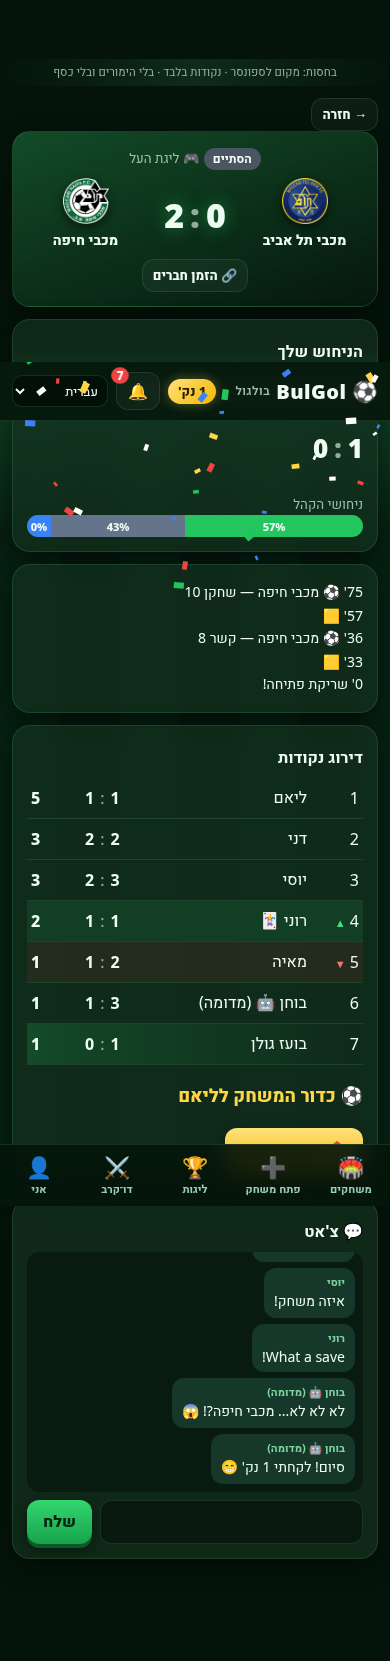
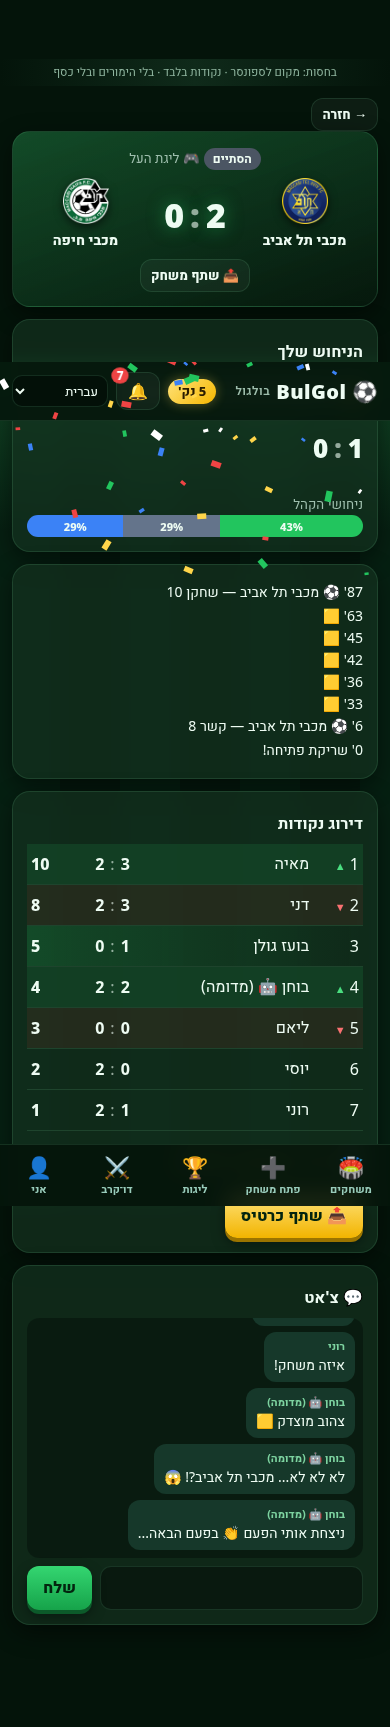
Predictions window 48h open / 5h lock (real), per-match share links, tester respects lock

diff --git a/js/app.js b/js/app.js
@@ -13,6 +13,8 @@ const rnd=n=>Math.floor(Math.random()*n);
 const vib=n=>{try{navigator.vibrate&&navigator.vibrate(n);}catch(e){}};
 let tab='home',cur=null,prevRank={},fixCache={};
 const initials=n=>esc(String(n).replace(/[^\p{L}\p{N} ]/gu,'').split(' ').filter(Boolean).slice(0,2).map(w=>w[0]).join('').toUpperCase());
+const WIN=48*36e5,LOCK5=5*36e5;const lockAt=m=>m.real?m.ko-LOCK5:m.ko;const notYet=m=>m.state==='pre'&&m.ko-Date.now()>WIN;const closed=m=>m.state!=='pre'||Date.now()>=lockAt(m);const lockMsg=m=>m.real&&m.state==='pre'?t('locked5'):t('locked');
+function opensIn(m){const l=Math.max(0,m.ko-WIN-Date.now()),d=Math.floor(l/864e5),h=Math.floor(l%864e5/36e5),mi=Math.floor(l%36e5/6e4);return t('opensIn')+' '+(d?d+'d ':'')+h+'h '+mi+'m';}
 const hue=n=>[...String(n)].reduce((a,c)=>a+c.charCodeAt(0)*7,0)%360;
 function crest(team,url){const n=nm(team),u=safeUrl(url||BADGE_URL[String(team).split('|')[1]]);const fb=`<span class="crest fb" data-h="${hue(n)}">${initials(n)}</span>`;return u?`<img class="crest" alt="" loading="lazy" src="${esc(u)}/tiny" data-fb="${initials(n)}" data-h="${hue(n)}">`:fb;}
 document.addEventListener('error',e=>{const i=e.target;if(i.tagName==='IMG'&&i.dataset.fb!=null){const s=document.createElement('span');s.className='crest fb';s.dataset.h=i.dataset.h;s.textContent=i.dataset.fb;i.replaceWith(s);}},true);
@@ -31,7 +33,7 @@ function crowd(m){const ps=Object.values(m.preds);if(!ps.length)return'';const c
 function render(){hdr();const v=$('#view');v.classList.remove('in');void v.offsetWidth;v.classList.add('in');
  if(tab==='home'){const cl=Cloud.on()?'':`<div class="note">☁ ${t('cloudOff')}</div>`;const now=Date.now(),d0=new Date();d0.setHours(0,0,0,0);const lim=fTime==='today'?d0.getTime()+864e5:fTime==='week'?d0.getTime()+7*864e5:Infinity;const lo=fTime==='all'?-Infinity:d0.getTime()-864e5;const ms=S.matches.filter(m=>(fLg==='all'||m.lg===fLg)&&m.ko<lim&&(m.ko>=lo||m.state==='live')).sort((x,y)=>(x.state==='done')-(y.state==='done')||x.ko-y.ko);
  const fl=`<div class="filters"><select id="flg" aria-label="${t('fLeague')}"><option value="all">${t('fAllLg')}</option>${Object.keys(LEAGUES).map(k=>`<option value="${esc(k)}"${fLg===k?' selected':''}>${esc(LEAGUES[k][S.lang==='he'?'he':'en'])}</option>`).join('')}</select><div class="seg">${['today','week','all'].map(k=>`<button class="ghost sm${fTime===k?' on':''}" data-ft="${k}">${t('f_'+k)}</button>`).join('')}</div></div>`;
- v.innerHTML=cl+`<div class="ad">${t('ad')}</div>`+fl+(ms.length?ms.map(m=>{const p=m.preds[S.me],op=m.state==='pre'&&now<m.ko;return`<div class="card mcard"><div data-open="${m.id}"><div class="mtop">${status(m)} <small>${m.real?'🌍 '+t('real'):'🎮 '+t('demo')} · ${esc(LEAGUES[m.lg][S.lang==='he'?'he':'en'])}</small></div>${matchHead(m)}<small>👥 ${Object.keys(m.preds).length} ${t('joined')} · ${new Date(m.ko).toLocaleString(S.lang,{weekday:'short',hour:'2-digit',minute:'2-digit'})}</small>${m.stake?`<div class="stake">🎁 ${t('stakeLbl')}: ${esc(m.stake)}</div>`:''}</div>${op?`<div class="qp"><input type="number" min="0" max="15" inputmode="numeric" class="qh" value="${p?+p.h:''}" placeholder="0"> : <input type="number" min="0" max="15" inputmode="numeric" class="qa" value="${p?+p.a:''}" placeholder="0"> <button class="gold sm" data-q="${m.id}">${p?'✅ ':''}${t('quickSave')}</button></div>`:p?`<div class="qp"><small>${t('predict')}: ${+p.h}:${+p.a}</small></div>`:''}</div>`}).join(''):`<div class="card empty">⚽<br>${t('noMatch')}</div>`);const sl=$('#flg');if(sl)sl.onchange=e=>{fLg=e.target.value;localStorage.bgFlg=fLg;render();};}
+ v.innerHTML=cl+`<div class="ad">${t('ad')}</div>`+fl+(ms.length?ms.map(m=>{const p=m.preds[S.me],op=!closed(m);return`<div class="card mcard"><div data-open="${m.id}"><div class="mtop">${status(m)} <small>${m.real?'🌍 '+t('real'):'🎮 '+t('demo')} · ${esc(LEAGUES[m.lg][S.lang==='he'?'he':'en'])}</small></div>${matchHead(m)}<small>👥 ${Object.keys(m.preds).length} ${t('joined')} · ${new Date(m.ko).toLocaleString(S.lang,{weekday:'short',hour:'2-digit',minute:'2-digit'})}</small>${m.stake?`<div class="stake">🎁 ${t('stakeLbl')}: ${esc(m.stake)}</div>`:''}</div>${op&&notYet(m)?`<div class="qp"><small>⏳ ${esc(opensIn(m))}</small></div>`:op?`<div class="qp"><input type="number" min="0" max="15" inputmode="numeric" class="qh" value="${p?+p.h:''}" placeholder="0"> : <input type="number" min="0" max="15" inputmode="numeric" class="qa" value="${p?+p.a:''}" placeholder="0"> <button class="gold sm" data-q="${m.id}">${p?'✅ ':''}${t('quickSave')}</button></div>`:p?`<div class="qp"><small>${t('predict')}: ${+p.h}:${+p.a}</small></div>`:m.state==='pre'?`<div class="qp"><small>${esc(lockMsg(m))}</small></div>`:''}<button class="ghost sm" data-act="sharem" data-id="${esc(m.id)}">📤 ${t('shareMatch')}</button></div>`}).join(''):`<div class="card empty">⚽<br>${t('noMatch')}</div>`);const sl=$('#flg');if(sl)sl.onchange=e=>{fLg=e.target.value;localStorage.bgFlg=fLg;render();};}
  else if(tab==='create')renderCreate();
  else if(tab==='match')renderMatch();
  else if(tab==='leagues'){v.innerHTML=S.leagues.map(l=>{const rows=l.members.map(p=>[p,S.totals[p]||0]).sort((a,b)=>b[1]-a[1]);return`<div class="card"><h2>${esc(l.name)}</h2><table>${rows.map((r,i)=>`<tr class="${r[0]===S.me?'me':''}"><td>${['🥇','🥈','🥉'][i]||i+1}</td><td>${esc(dn(r[0]))}</td><td class="n">${r[1]} ${t('pts')}</td></tr>`).join('')}</table><p class="trophy">${t('trophy')}: <b>${esc(dn(rows[0][0]))}</b></p><button class="ghost sm" data-act="invite" data-l="${esc(l.id)}">🔗 ${t('invite')}</button></div>`;}).join('')+`<div class="card"><h3>${t('newLeague')}</h3><input id="lname" maxlength="40" placeholder="${t('leagueName')}"><br><br><button data-act="league">${t('create2')}</button></div><div class="card"><h2>${t('fans')}</h2><table>${Object.entries(S.fanPts).sort((a,b)=>b[1]-a[1]).map(([k,p],i)=>`<tr><td>${i+1}</td><td>${crest(k)} ${esc(nm(k))}</td><td class="n">${p}</td></tr>`).join('')||'<tr><td>—</td></tr>'}</table></div>`;}
@@ -59,25 +61,25 @@ function boardHtml(m){const rank=standings(m);return rank.map((r,i)=>{const was=
 function flipBoard(m){const tb=$('#board');if(!tb)return;const old={};tb.querySelectorAll('tr').forEach(r=>old[r.dataset.n]=r.getBoundingClientRect().top);tb.innerHTML=boardHtml(m);
  tb.querySelectorAll('tr').forEach(r=>{const o=old[r.dataset.n];if(o==null)return;const d=o-r.getBoundingClientRect().top;if(d){r.style.transform=`translateY(${d}px)`;r.style.transition='none';requestAnimationFrame(()=>{r.style.transition='transform .7s cubic-bezier(.2,.8,.2,1)';r.style.transform='';});}});
  prevRank[m.id]={};standings(m).forEach((r,i)=>prevRank[m.id][r[0]]=i);}
-function renderMatch(){const m=S.matches.find(x=>x.id===cur);if(!m){tab='home';return render();}const v=$('#view');const mine=m.preds[S.me]||{};const lock=m.state!=='pre'||Date.now()>=m.ko;const L=LEAGUES[m.lg];
+function renderMatch(){const m=S.matches.find(x=>x.id===cur);if(!m){tab='home';return render();}const v=$('#view');const mine=m.preds[S.me]||{};const lock=closed(m);const L=LEAGUES[m.lg];
  const pl=PLAYERS.map((p,i)=>`<option value="${i}" ${mine.sc==i?'selected':''}>${esc(nm(p))}</option>`).join('');
  const scorerField=m.real?`<input id="psc" maxlength="40" value="${esc(mine.st||'')}" placeholder="${t('scorerTxt')}">`:`<select id="psc">${pl}</select>`;
- v.innerHTML=`<button class="ghost sm" data-tab="home">${RTL.includes(S.lang)?'→':'←'} ${t('back')}</button><div class="card hero">${status(m)} <small>${m.real?'🌍':'🎮'} ${esc(L[S.lang==='he'?'he':'en'])}</small>${matchHead(m)}${m.state==='pre'?`<div class="cd" id="cd"></div>`:''}${m.real&&m.state!=='done'&&Date.now()>m.ko?`<small>⏳ ${t('waitFT')}</small>`:''}${m.stake?`<div class="stake">🎁 ${t('stakeLbl')}: ${esc(m.stake)}</div>`:''}<button class="ghost sm" data-act="invitem">🔗 ${t('invite')}</button></div>
- <div class="card"><h3>${t('predict')}</h3>${lock?`<p>${t('locked')}</p><p class="mypick">${mine.h!=null?sc(mine.h,mine.a):'—'}${mine.j?' 🃏':''}</p>`:`<div class="row pickrow"><div><small>${esc(nm(m.home))}</small><input id="ph" type="number" min="0" max="15" value="${mine.h??1}"></div><div><small>${esc(nm(m.away))}</small><input id="pa" type="number" min="0" max="15" value="${mine.a??0}"></div></div><label>${t('scorer')}</label>${scorerField}<div class="row"><div><label>${t('yellow')}</label><input id="py" type="number" min="0" max="12" value="${mine.y??3}"></div>${m.real?'':`<div><label>${t('corners')}</label><input id="pc" type="number" min="0" max="25" value="${mine.c??9}"></div>`}</div><label class="chk"><input type="checkbox" id="pr" ${mine.r?'checked':''}><span>${t('red')}</span></label><label class="chk"><input type="checkbox" id="pj" ${mine.j?'checked':''}><span>${t('joker')}</span></label><small>${t('bold')}</small><br><br><button data-act="pick" class="big">${t('save')}</button>`}
+ v.innerHTML=`<button class="ghost sm" data-tab="home">${RTL.includes(S.lang)?'→':'←'} ${t('back')}</button><div class="card hero">${status(m)} <small>${m.real?'🌍':'🎮'} ${esc(L[S.lang==='he'?'he':'en'])}</small>${matchHead(m)}${m.state==='pre'?`<div class="cd" id="cd"></div>`:''}${m.real&&m.state!=='done'&&Date.now()>m.ko?`<small>⏳ ${t('waitFT')}</small>`:''}${m.stake?`<div class="stake">🎁 ${t('stakeLbl')}: ${esc(m.stake)}</div>`:''}<button class="ghost sm" data-act="invitem">📤 ${t('shareMatch')}</button></div>
+ <div class="card"><h3>${t('predict')}</h3>${notYet(m)?`<p>⏳ ${esc(opensIn(m))}</p>`:lock?`<p>${esc(lockMsg(m))}</p><p class="mypick">${mine.h!=null?sc(mine.h,mine.a):'—'}${mine.j?' 🃏':''}</p>`:`<div class="row pickrow"><div><small>${esc(nm(m.home))}</small><input id="ph" type="number" min="0" max="15" value="${mine.h??1}"></div><div><small>${esc(nm(m.away))}</small><input id="pa" type="number" min="0" max="15" value="${mine.a??0}"></div></div><label>${t('scorer')}</label>${scorerField}<div class="row"><div><label>${t('yellow')}</label><input id="py" type="number" min="0" max="12" value="${mine.y??3}"></div>${m.real?'':`<div><label>${t('corners')}</label><input id="pc" type="number" min="0" max="25" value="${mine.c??9}"></div>`}</div><label class="chk"><input type="checkbox" id="pr" ${mine.r?'checked':''}><span>${t('red')}</span></label><label class="chk"><input type="checkbox" id="pj" ${mine.j?'checked':''}><span>${t('joker')}</span></label><small>${t('bold')}</small><br><br><button data-act="pick" class="big">${t('save')}</button>`}
  ${crowd(m)}${m.state==='pre'&&!m.real?`<br><button class="ghost" data-act="start">${t('startLive')}</button>`:''}</div>
  ${m.state==='live'&&!m.real?`<div class="card"><h3>📡 ${t('livePick')}</h3><div class="row"><button class="sm ${m.livePick==='h'?'gold':''}" data-live="h">${esc(nm(m.home))}</button><button class="sm ${m.livePick==='a'?'gold':''}" data-live="a">${esc(nm(m.away))}</button><button class="sm ghost" data-live="n">${t('none')}</button></div></div>`:''}
  ${m.feed.length?`<div class="card feed" id="feed">${m.feed.slice(-8).reverse().map(f=>`<p>${esc(f)}</p>`).join('')}</div>`:''}
  <div class="card"><h3>${t('ranking')}</h3>${m.state==='live'?`<small class="prov">⚡ ${t('provisional')}</small>`:''}<table><tbody id="board"></tbody></table>${m.state==='done'&&m.winner?`<p class="win">⚽ ${t('ballTo')}${esc(m.winner)}</p><button class="gold" data-act="showball">📤 ${t('share')}</button>`:''}</div>
  <div class="card"><h3>💬 ${t('chat')}</h3><div class="chat" id="chat">${m.chat.map(c=>`<p class="${c.n===S.me?'mine':''}"><b>${esc(dn(c.n))}</b>${esc(c.m)}</p>`).join('')}</div><div class="row"><input id="cm" maxlength="200"><button class="fit" data-act="chat">${t('send')}</button></div></div>`;
  flipBoard(m);const ch=$('#chat');ch.scrollTop=ch.scrollHeight;cdTick();}
-function cdTick(){const e=$('#cd');if(!e)return;const m=S.matches.find(x=>x.id===cur);const left=Math.max(0,Math.ceil((m.ko-Date.now())/1000));const d=Math.floor(left/86400),h=Math.floor(left%86400/3600),mi=Math.floor(left%3600/60),s=left%60;e.textContent='⏱ '+(d?d+'d ':'')+(h?h+':':'')+String(mi).padStart(2,'0')+':'+String(s).padStart(2,'0');}
+function cdTick(){const e=$('#cd');if(!e)return;const m=S.matches.find(x=>x.id===cur);if(!m)return;const lk=m.real&&Date.now()<lockAt(m);const left=Math.max(0,Math.ceil(((lk?lockAt(m):m.ko)-Date.now())/1000));const d=Math.floor(left/86400),h=Math.floor(left%86400/3600),mi=Math.floor(left%3600/60),s=left%60;e.textContent=(lk?'🔒 '+t('lockIn')+' ':'⏱ ')+(d?d+'d ':'')+(h?h+':':'')+String(mi).padStart(2,'0')+':'+String(s).padStart(2,'0');}
 function botPred(real){return{h:rnd(4),a:rnd(3),sc:rnd(6),st:real?'':'',y:2+rnd(4),c:6+rnd(7),r:Math.random()<.2,j:Math.random()<.3};}
 function createMatch(){const lg=$('#lg').value,L=LEAGUES[lg];let m;const base={id:'m'+Date.now()+rnd(999),lg,stake:$('#stake').value.trim().slice(0,80),state:'pre',minute:0,sh:0,sa:0,y:0,r:0,c:0,firstSc:null,preds:{},chat:[{n:'דני',m:'יאללה! מי בפנים? ⚽'}],feed:[]};
  if($('#view').dataset.mode==='real'){const sel=document.querySelector('input[name=fx]:checked');if(!sel)return toast(t('noFix'));const e=fixCache[lg][+sel.value];m={...base,real:e.idEvent,home:'|'+e.strHomeTeam,away:'|'+e.strAwayTeam,hb:safeUrl(e.strHomeTeamBadge),ab:safeUrl(e.strAwayTeamBadge),ko:Date.parse(e.strTimestamp+'Z')};}
  else{const h=+$('#th').value,a=+$('#ta').value;if(h===a)return toast('⚠');m={...base,home:L.teams[h],away:L.teams[a],ko:Date.now()+Math.max(1,+$('#ko').value||2)*60000};}
  FRIENDS.slice(0,3+rnd(3)).forEach(f=>m.preds[f]=botPred(!!m.real));Tester.join(m);S.matches.push(m);save();notify('⚽ '+nm(m.home)+' – '+nm(m.away));cur=m.id;tab='match';render();}
-function quickPick(id,box){const m=S.matches.find(x=>x.id===id);if(!m||m.state!=='pre'||Date.now()>=m.ko)return toast(t('locked'));const o=m.preds[S.me]||{y:0,c:0,r:false,j:false};const p=Object.assign({},o,{h:Math.min(15,Math.max(0,+box.querySelector('.qh').value||0)),a:Math.min(15,Math.max(0,+box.querySelector('.qa').value||0))});m.preds[S.me]=p;badge('first');save();vib(20);toast('✅ '+t('saved'));Tester.picked(m);const b=box.querySelector('button');if(b)b.textContent='✅ '+t('quickSave');}
-function pick(){const m=S.matches.find(x=>x.id===cur);if(m.state!=='pre'||Date.now()>=m.ko)return toast(t('locked'));const p={h:Math.min(15,Math.max(0,+$('#ph').value||0)),a:Math.min(15,Math.max(0,+$('#pa').value||0)),y:+$('#py').value||0,c:m.real?0:(+$('#pc').value||0),r:$('#pr').checked,j:$('#pj').checked};if(m.real)p.st=$('#psc').value.trim().slice(0,40);else p.sc=+$('#psc').value;m.preds[S.me]=p;badge('first');save();vib(20);toast('✅ '+t('saved'));Tester.picked(m);render();}
+function quickPick(id,box){const m=S.matches.find(x=>x.id===id);if(!m||closed(m))return toast(m?lockMsg(m):t('locked'));if(notYet(m))return toast('⏳ '+opensIn(m));const o=m.preds[S.me]||{y:0,c:0,r:false,j:false};const p=Object.assign({},o,{h:Math.min(15,Math.max(0,+box.querySelector('.qh').value||0)),a:Math.min(15,Math.max(0,+box.querySelector('.qa').value||0))});m.preds[S.me]=p;badge('first');save();vib(20);toast('✅ '+t('saved'));Tester.picked(m);const b=box.querySelector('button');if(b)b.textContent='✅ '+t('quickSave');}
+function pick(){const m=S.matches.find(x=>x.id===cur);if(closed(m))return toast(lockMsg(m));if(notYet(m))return toast('⏳ '+opensIn(m));const p={h:Math.min(15,Math.max(0,+$('#ph').value||0)),a:Math.min(15,Math.max(0,+$('#pa').value||0)),y:+$('#py').value||0,c:m.real?0:(+$('#pc').value||0),r:$('#pr').checked,j:$('#pj').checked};if(m.real)p.st=$('#psc').value.trim().slice(0,40);else p.sc=+$('#psc').value;m.preds[S.me]=p;badge('first');save();vib(20);toast('✅ '+t('saved'));Tester.picked(m);render();}
 // ---- simulation engine: time-based, survives leaving the screen / reload ----
 const TICK=600;
 function startLive(m){if(m.state!=='pre'||m.real)return;m.state='live';m.simStart=Date.now();m.minute=0;m.ko=Math.min(m.ko,Date.now());whistle();m.feed.push("0' "+(S.lang==='he'?'שריקת פתיחה!':'Kick-off!'));notify('🔒 '+nm(m.home)+' – '+nm(m.away)+': '+t('locked'));save();if(tab==='match'&&cur===m.id)render();}
@@ -115,7 +117,7 @@ function shareCard(){const m=S.matches.find(x=>x.id===cur);const c=document.crea
  c.toBlob(b=>{const file=new File([b],'bulgol-ball.png',{type:'image/png'});if(navigator.canShare&&navigator.canShare({files:[file]}))navigator.share({files:[file],title:'BulGol'}).catch(()=>{});else{const a=document.createElement('a');a.href=URL.createObjectURL(b);a.download='bulgol-ball.png';a.click();}});}
 async function shareLink(url,title){try{if(navigator.share){await navigator.share({title,url});return;}}catch(e){return;}try{await navigator.clipboard.writeText(url);toast('🔗 '+t('copied'));}catch(e){toast(url);}}
 function inviteUrl(kind,id){const m=S.matches.find(x=>x.id===id);const u=new URL(location.href);u.search='';u.hash='';if(kind==='m'&&m){u.searchParams.set('m',id);if(!Cloud.on()){u.searchParams.set('d',JSON.stringify({lg:m.lg,home:m.home,away:m.away,hb:m.hb,ab:m.ab,real:m.real,ko:m.ko,stake:m.stake}).slice(0,1500));}}else u.searchParams.set('l',id);return u.toString();}
-function importInvite(){const q=new URLSearchParams(location.search);const d=q.get('d'),id=q.get('m');if(id&&d&&!S.matches.find(x=>x.id===id)){try{const o=JSON.parse(d);if(LEAGUES[o.lg]&&typeof o.home==='string'&&typeof o.away==='string'){S.matches.push({id:String(id).slice(0,40),lg:o.lg,home:o.home.slice(0,60),away:o.away.slice(0,60),hb:safeUrl(o.hb),ab:safeUrl(o.ab),real:o.real?String(o.real).replace(/\D/g,''):null,ko:+o.ko||Date.now()+120000,stake:String(o.stake||'').slice(0,80),state:'pre',minute:0,sh:0,sa:0,y:0,r:0,c:0,firstSc:null,preds:{},chat:[],feed:[]});cur=id;tab='match';save();}}catch(e){}}history.replaceState(null,'',location.pathname);}
+function importInvite(){const q=new URLSearchParams(location.search);const d=q.get('d'),id=(q.get('m')||'').replace(/[^\w]/g,'').slice(0,40);if(id&&S.matches.find(x=>x.id===id)){cur=id;tab='match';}else if(id&&d){try{const o=JSON.parse(d);if(LEAGUES[o.lg]&&typeof o.home==='string'&&typeof o.away==='string'){S.matches.push({id,lg:o.lg,home:o.home.slice(0,60),away:o.away.slice(0,60),hb:safeUrl(o.hb),ab:safeUrl(o.ab),real:o.real?String(o.real).replace(/\D/g,''):null,ko:(+o.ko>0&&+o.ko<Date.now()+400*864e5)?+o.ko:Date.now()+120000,stake:String(o.stake||'').slice(0,80),state:'pre',minute:0,sh:0,sa:0,y:0,r:0,c:0,firstSc:null,preds:{},chat:[],feed:[]});cur=id;tab='match';Tester.join(S.matches[S.matches.length-1]);save();}}catch(e){}}history.replaceState(null,'',location.pathname);}
 document.addEventListener('click',e=>{const el=e.target.closest('[data-tab],[data-open],[data-act],[data-live],[data-ft],[data-q]');if(!el)return;
  if(el.dataset.ft){fTime=el.dataset.ft;localStorage.bgFt=fTime;render();return;}
  if(el.dataset.q){quickPick(el.dataset.q,el.closest('.qp'));return;}
@@ -127,7 +129,7 @@ document.addEventListener('click',e=>{const el=e.target.closest('[data-tab],[dat
  else if(a==='chat'){const v=$('#cm').value.trim().slice(0,200);if(!v)return;const m=S.matches.find(x=>x.id===cur);m.chat.push({n:S.me,m:v});if(m.chat.filter(c=>c.n===S.me).length>=3)badge('chat');save();renderMatch();}
  else if(a==='showball')ballPopup(S.matches.find(x=>x.id===cur));
  else if(a==='share')shareCard();else if(a==='close')$('#modal').classList.remove('show');
- else if(a==='invitem')shareLink(inviteUrl('m',cur),'BulGol');else if(a==='invite')shareLink(inviteUrl('l',el.dataset.l),'BulGol');
+ else if(a==='sharem')shareLink(inviteUrl('m',el.dataset.id),'BulGol');else if(a==='invitem')shareLink(inviteUrl('m',cur),'BulGol');else if(a==='invite')shareLink(inviteUrl('l',el.dataset.l),'BulGol');
  else if(a==='league'){const n=$('#lname').value.trim().slice(0,40);if(!n)return;S.leagues.push({id:'l'+Date.now(),name:n,members:[S.me,...FRIENDS.slice(2)]});save();render();}
  else if(a==='duel'){{const d={vs:$('#dfr').value,res:null};S.duels.push(d);notify('⚔ '+dn(d.vs));Tester.duel(d);}save();render();}
  else if(a==='magic'){const em=$('#email').value.trim();if(/^[^@\s]+@[^@\s]+\.[^@\s]+$/.test(em))Cloud.magic(em).then(()=>toast('📧 ✓'));}

diff --git a/js/i18n.js b/js/i18n.js
@@ -2,3 +2,5 @@
 
 // simulated tester strings
 [["he",{"botName": "בוחן 🤖 (מדומה)", "botToggle": "חבר בוחן מדומה פעיל", "botDesc": "שחקן מדומה לבדיקות — לא אדם אמיתי. פותח משחקים, מנחש ומדבר בצ'אט.", "botOpened": "הבוחן פתח משחק:", "botJoinUs": "הצטרף!", "botReacted": "הבוחן הגיב לניחוש שלך", "botDuel": "הבוחן קיבל את הדו־קרב! ⚔", "botPre": ["אני בפנים! הולך על {x} 💪", "יאללה, ניחוש שמור. מי מעז? 😎", "מרגיש פה הפתעה... 🤔"], "botOpenChat": ["פתחתי משחק, מי בא? ⚽", "בואו נראה מי מבין בכדורגל 😄"], "botGoalYes": ["גולללל! {x} בדיוק כמו שאמרתי 🔥", "ידעתי! 🙌"], "botGoalNo": ["אוף, זה הורס לי את הניחוש 😅", "לא לא לא... {x}?! 😱"], "botYellow": ["צהוב מוצדק 🟨", "השופט קפדני היום"], "botRed": ["אדום!! זה ישנה הכול 🟥"], "botFtWin": ["סיום! לקחתי {p} נק' 😁", "שריקת סיום, יצאתי עם {p} נק'"], "botFtLose": ["ניצחת אותי הפעם 👏 בפעם הבאה..."], "botFtZero": ["אפס נקודות... בפעם הבאה 🙈"], "botSame": ["גם אני הלכתי על הכיוון הזה! ({s}) 🤝", "חושבים אותו דבר 😄"], "botDiff": ["אני דווקא על {s}. נראה מי צודק 😏", "אמיץ! אני הלכתי על {s}"]}],["en",{"botName": "Tester 🤖 (simulated)", "botToggle": "Simulated tester friend on", "botDesc": "A simulated player for testing — not a real person. Opens matches, predicts and chats.", "botOpened": "The tester opened a match:", "botJoinUs": "Join in!", "botReacted": "The tester reacted to your pick", "botDuel": "The tester accepted your duel! ⚔", "botPre": ["I'm in! Going with {x} 💪", "Pick saved. Who dares? 😎", "I smell an upset... 🤔"], "botOpenChat": ["Opened a match, who's in? ⚽", "Let's see who knows football 😄"], "botGoalYes": ["GOAL! {x} just like I said 🔥", "Knew it! 🙌"], "botGoalNo": ["Ugh, there goes my pick 😅", "No no no... {x}?! 😱"], "botYellow": ["Fair yellow 🟨", "Strict ref today"], "botRed": ["RED! That changes everything 🟥"], "botFtWin": ["Full time! I got {p} pts 😁", "Final whistle, {p} pts for me"], "botFtLose": ["You beat me this time 👏 next time..."], "botFtZero": ["Zero points... next time 🙈"], "botSame": ["Same direction as me! ({s}) 🤝", "Great minds 😄"], "botDiff": ["I'm on {s}. Let's see who's right 😏", "Brave! I went {s}"]}],["es",{"botName": "Probador 🤖 (simulado)", "botToggle": "Amigo probador simulado activo", "botDesc": "Jugador simulado para pruebas, no es una persona real. Abre partidos, pronostica y chatea.", "botOpened": "El probador abrió un partido:", "botJoinUs": "¡Únete!", "botReacted": "El probador reaccionó a tu pronóstico", "botDuel": "¡El probador aceptó tu duelo! ⚔", "botPre": ["¡Dentro! Voy con {x} 💪", "Pronóstico guardado 😎"], "botOpenChat": ["Abrí un partido, ¿quién se apunta? ⚽"], "botGoalYes": ["¡GOL! {x}, como dije 🔥"], "botGoalNo": ["Uf, adiós a mi pronóstico 😅"], "botYellow": ["Amarilla justa 🟨"], "botRed": ["¡ROJA! 🟥"], "botFtWin": ["¡Final! Saqué {p} pts 😁"], "botFtLose": ["Me ganaste esta vez 👏"], "botFtZero": ["Cero puntos... 🙈"], "botSame": ["¡Igual que yo! ({s}) 🤝"], "botDiff": ["Yo voy {s}. A ver quién acierta 😏"]}],["fr",{"botName": "Testeur 🤖 (simulé)", "botToggle": "Ami testeur simulé activé", "botDesc": "Joueur simulé pour les tests, pas une vraie personne. Ouvre des matchs, pronostique et discute.", "botOpened": "Le testeur a ouvert un match :", "botJoinUs": "Rejoins !", "botReacted": "Le testeur a réagi à ton prono", "botDuel": "Le testeur a accepté ton duel ! ⚔", "botPre": ["Je suis dedans ! Je mise sur {x} 💪", "Prono enregistré 😎"], "botOpenChat": ["Match ouvert, qui vient ? ⚽"], "botGoalYes": ["BUT ! {x}, comme prévu 🔥"], "botGoalNo": ["Aïe, mon prono s'envole 😅"], "botYellow": ["Jaune mérité 🟨"], "botRed": ["ROUGE ! 🟥"], "botFtWin": ["Fin du match ! {p} pts pour moi 😁"], "botFtLose": ["Tu m'as battu cette fois 👏"], "botFtZero": ["Zéro point... 🙈"], "botSame": ["Comme moi ! ({s}) 🤝"], "botDiff": ["Moi je dis {s}. On verra 😏"]}],["de",{"botName": "Tester 🤖 (simuliert)", "botToggle": "Simulierter Tester-Freund an", "botDesc": "Simulierter Spieler zum Testen – keine echte Person. Eröffnet Spiele, tippt und chattet.", "botOpened": "Der Tester hat ein Spiel eröffnet:", "botJoinUs": "Mach mit!", "botReacted": "Der Tester hat auf deinen Tipp reagiert", "botDuel": "Der Tester hat dein Duell angenommen! ⚔", "botPre": ["Bin dabei! Ich tippe auf {x} 💪", "Tipp gespeichert 😎"], "botOpenChat": ["Spiel eröffnet, wer ist dabei? ⚽"], "botGoalYes": ["TOR! {x}, wie gesagt 🔥"], "botGoalNo": ["Mist, mein Tipp ist hin 😅"], "botYellow": ["Verdiente Gelbe 🟨"], "botRed": ["ROT! 🟥"], "botFtWin": ["Abpfiff! {p} Pkt. für mich 😁"], "botFtLose": ["Diesmal hast du gewonnen 👏"], "botFtZero": ["Null Punkte... 🙈"], "botSame": ["Genau wie ich! ({s}) 🤝"], "botDiff": ["Ich tippe {s}. Mal sehen 😏"]}],["ar",{"botName": "المختبِر 🤖 (محاكاة)", "botToggle": "صديق مختبِر محاكى مفعّل", "botDesc": "لاعب محاكى للاختبار وليس شخصًا حقيقيًا. يفتح مباريات ويتوقع ويدردش.", "botOpened": "المختبِر فتح مباراة:", "botJoinUs": "انضم!", "botReacted": "المختبِر تفاعل مع توقعك", "botDuel": "المختبِر قبل التحدي! ⚔", "botPre": ["أنا معكم! أراهن على {x} 💪", "تم حفظ توقعي 😎"], "botOpenChat": ["فتحت مباراة، من معي؟ ⚽"], "botGoalYes": ["هدف! {x} كما قلت 🔥"], "botGoalNo": ["أوه، ضاع توقعي 😅"], "botYellow": ["بطاقة صفراء مستحقة 🟨"], "botRed": ["حمراء! 🟥"], "botFtWin": ["نهاية المباراة! حصلت على {p} نقاط 😁"], "botFtLose": ["فزت علي هذه المرة 👏"], "botFtZero": ["صفر نقاط... 🙈"], "botSame": ["مثلي تمامًا! ({s}) 🤝"], "botDiff": ["أنا أتوقع {s}. لنرَ 😏"]}],["ru",{"botName": "Тестер 🤖 (симуляция)", "botToggle": "Симулированный друг-тестер включён", "botDesc": "Симулированный игрок для тестов — не реальный человек. Открывает матчи, делает прогнозы и пишет в чат.", "botOpened": "Тестер открыл матч:", "botJoinUs": "Присоединяйся!", "botReacted": "Тестер отреагировал на твой прогноз", "botDuel": "Тестер принял дуэль! ⚔", "botPre": ["Я в деле! Ставлю на {x} 💪", "Прогноз сохранён 😎"], "botOpenChat": ["Открыл матч, кто со мной? ⚽"], "botGoalYes": ["ГОЛ! {x}, как я и говорил 🔥"], "botGoalNo": ["Эх, прощай мой прогноз 😅"], "botYellow": ["Заслуженная жёлтая 🟨"], "botRed": ["КРАСНАЯ! 🟥"], "botFtWin": ["Финал! У меня {p} очк. 😁"], "botFtLose": ["В этот раз ты победил 👏"], "botFtZero": ["Ноль очков... 🙈"], "botSame": ["Как и я! ({s}) 🤝"], "botDiff": ["Я за {s}. Посмотрим 😏"]}],["zh",{"botName": "测试员 🤖（模拟）", "botToggle": "模拟测试好友已开启", "botDesc": "用于测试的模拟玩家——不是真人。会开比赛、预测并聊天。", "botOpened": "测试员开了一场比赛：", "botJoinUs": "快加入！", "botReacted": "测试员回应了你的预测", "botDuel": "测试员接受了你的对决！⚔", "botPre": ["我加入了！看好{x} 💪", "预测已保存 😎"], "botOpenChat": ["开了一场比赛，谁来？⚽"], "botGoalYes": ["进球！{x}，我就说吧 🔥"], "botGoalNo": ["唉，我的预测泡汤了 😅"], "botYellow": ["黄牌没毛病 🟨"], "botRed": ["红牌！🟥"], "botFtWin": ["终场！我拿了{p}分 😁"], "botFtLose": ["这次你赢了 👏"], "botFtZero": ["零分…… 🙈"], "botSame": ["和我想的一样！（{s}）🤝"], "botDiff": ["我押{s}，看谁对 😏"]}],["pt",{"botName": "Testador 🤖 (simulado)", "botToggle": "Amigo testador simulado ativo", "botDesc": "Jogador simulado para testes, não é uma pessoa real. Abre jogos, palpita e conversa.", "botOpened": "O testador abriu um jogo:", "botJoinUs": "Entre!", "botReacted": "O testador reagiu ao seu palpite", "botDuel": "O testador aceitou o duelo! ⚔", "botPre": ["Tô dentro! Vou de {x} 💪", "Palpite salvo 😎"], "botOpenChat": ["Abri um jogo, quem vem? ⚽"], "botGoalYes": ["GOL! {x}, como eu disse 🔥"], "botGoalNo": ["Ah, lá se vai meu palpite 😅"], "botYellow": ["Amarelo justo 🟨"], "botRed": ["VERMELHO! 🟥"], "botFtWin": ["Fim de jogo! Fiz {p} pts 😁"], "botFtLose": ["Você me venceu desta vez 👏"], "botFtZero": ["Zero pontos... 🙈"], "botSame": ["Igual a mim! ({s}) 🤝"], "botDiff": ["Eu fui de {s}. Vamos ver 😏"]}],["it",{"botName": "Tester 🤖 (simulato)", "botToggle": "Amico tester simulato attivo", "botDesc": "Giocatore simulato per i test, non una persona reale. Apre partite, pronostica e chatta.", "botOpened": "Il tester ha aperto una partita:", "botJoinUs": "Unisciti!", "botReacted": "Il tester ha reagito al tuo pronostico", "botDuel": "Il tester ha accettato il duello! ⚔", "botPre": ["Ci sono! Punto su {x} 💪", "Pronostico salvato 😎"], "botOpenChat": ["Ho aperto una partita, chi c'è? ⚽"], "botGoalYes": ["GOL! {x}, come dicevo 🔥"], "botGoalNo": ["Uff, addio pronostico 😅"], "botYellow": ["Giallo giusto 🟨"], "botRed": ["ROSSO! 🟥"], "botFtWin": ["Fischio finale! {p} punti per me 😁"], "botFtLose": ["Stavolta mi hai battuto 👏"], "botFtZero": ["Zero punti... 🙈"], "botSame": ["Come me! ({s}) 🤝"], "botDiff": ["Io dico {s}. Vediamo 😏"]}],["ja",{"botName": "テスター 🤖（シミュレーション）", "botToggle": "シミュレーションのテスター友達をオン", "botDesc": "テスト用のシミュレーションプレイヤーで、実在の人物ではありません。試合を開き、予想し、チャットします。", "botOpened": "テスターが試合を開きました：", "botJoinUs": "参加しよう！", "botReacted": "テスターがあなたの予想に反応しました", "botDuel": "テスターが対決を受けました！⚔", "botPre": ["参加！{x}に賭ける 💪", "予想を保存したよ 😎"], "botOpenChat": ["試合を開いたよ、誰か来る？⚽"], "botGoalYes": ["ゴール！{x}、言った通り 🔥"], "botGoalNo": ["うわ、予想が外れそう 😅"], "botYellow": ["妥当なイエロー 🟨"], "botRed": ["レッド！🟥"], "botFtWin": ["試合終了！{p}ポイント獲得 😁"], "botFtLose": ["今回は負けたよ 👏"], "botFtZero": ["0ポイント…… 🙈"], "botSame": ["私と同じ！（{s}）🤝"], "botDiff": ["私は{s}。どっちが正しいかな 😏"]}],["hi",{"botName": "टेस्टर 🤖 (सिम्युलेटेड)", "botToggle": "सिम्युलेटेड टेस्टर दोस्त चालू", "botDesc": "परीक्षण के लिए सिम्युलेटेड खिलाड़ी — असली व्यक्ति नहीं। मैच खोलता है, भविष्यवाणी करता है और चैट करता है।", "botOpened": "टेस्टर ने एक मैच खोला:", "botJoinUs": "जुड़ें!", "botReacted": "टेस्टर ने आपकी भविष्यवाणी पर प्रतिक्रिया दी", "botDuel": "टेस्टर ने द्वंद्व स्वीकार किया! ⚔", "botPre": ["मैं अंदर हूँ! {x} पर दांव 💪", "भविष्यवाणी सेव हो गई 😎"], "botOpenChat": ["मैच खोला है, कौन आ रहा है? ⚽"], "botGoalYes": ["गोल! {x}, जैसा मैंने कहा 🔥"], "botGoalNo": ["उफ़, मेरी भविष्यवाणी गई 😅"], "botYellow": ["सही पीला कार्ड 🟨"], "botRed": ["लाल कार्ड! 🟥"], "botFtWin": ["मैच खत्म! मुझे {p} अंक मिले 😁"], "botFtLose": ["इस बार आप जीत गए 👏"], "botFtZero": ["शून्य अंक... 🙈"], "botSame": ["बिल्कुल मेरी तरह! ({s}) 🤝"], "botDiff": ["मैं {s} पर हूँ। देखते हैं 😏"]}],["tr",{"botName": "Testçi 🤖 (simülasyon)", "botToggle": "Simüle testçi arkadaş açık", "botDesc": "Test için simüle edilmiş oyuncu — gerçek bir kişi değil. Maç açar, tahmin yapar ve sohbet eder.", "botOpened": "Testçi bir maç açtı:", "botJoinUs": "Katıl!", "botReacted": "Testçi tahminine tepki verdi", "botDuel": "Testçi düelloyu kabul etti! ⚔", "botPre": ["Ben varım! {x} diyorum 💪", "Tahmin kaydedildi 😎"], "botOpenChat": ["Maç açtım, kim geliyor? ⚽"], "botGoalYes": ["GOL! {x}, dediğim gibi 🔥"], "botGoalNo": ["Eyvah, tahminim gitti 😅"], "botYellow": ["Hak edilmiş sarı 🟨"], "botRed": ["KIRMIZI! 🟥"], "botFtWin": ["Maç bitti! {p} puan aldım 😁"], "botFtLose": ["Bu sefer sen kazandın 👏"], "botFtZero": ["Sıfır puan... 🙈"], "botSame": ["Tıpkı benim gibi! ({s}) 🤝"], "botDiff": ["Ben {s} diyorum. Görelim 😏"]}]].forEach(([l,o])=>{if(T[l])Object.assign(T[l],o);});
+// 48h open / 5h lock / share strings
+Object.entries({"he": {"opensIn": "הניחושים נפתחים בעוד", "shareMatch": "שתף משחק", "locked5": "הניחושים נסגרו 5 שעות לפני המשחק", "lockIn": "הניחושים נסגרים בעוד"}, "en": {"opensIn": "Predictions open in", "shareMatch": "Share match", "locked5": "Predictions closed 5 hours before the match", "lockIn": "Predictions close in"}, "es": {"opensIn": "Pronósticos abren en", "shareMatch": "Compartir partido", "locked5": "Pronósticos cerrados 5 horas antes del partido", "lockIn": "Pronósticos cierran en"}, "fr": {"opensIn": "Pronos ouverts dans", "shareMatch": "Partager le match", "locked5": "Pronos fermés 5 heures avant le match", "lockIn": "Pronos fermés dans"}, "de": {"opensIn": "Tipps öffnen in", "shareMatch": "Spiel teilen", "locked5": "Tipps 5 Stunden vor dem Spiel geschlossen", "lockIn": "Tipps schließen in"}, "ar": {"opensIn": "تفتح التوقعات بعد", "shareMatch": "شارك المباراة", "locked5": "أُغلقت التوقعات قبل 5 ساعات من المباراة", "lockIn": "تُغلق التوقعات بعد"}, "ru": {"opensIn": "Прогнозы откроются через", "shareMatch": "Поделиться матчем", "locked5": "Прогнозы закрыты за 5 часов до матча", "lockIn": "Прогнозы закроются через"}, "zh": {"opensIn": "预测开放倒计时", "shareMatch": "分享比赛", "locked5": "预测已在赛前5小时截止", "lockIn": "预测截止倒计时"}, "pt": {"opensIn": "Palpites abrem em", "shareMatch": "Compartilhar jogo", "locked5": "Palpites encerrados 5 horas antes do jogo", "lockIn": "Palpites fecham em"}, "it": {"opensIn": "Pronostici aperti tra", "shareMatch": "Condividi partita", "locked5": "Pronostici chiusi 5 ore prima della partita", "lockIn": "Pronostici chiudono tra"}, "ja": {"opensIn": "予想受付開始まで", "shareMatch": "試合を共有", "locked5": "予想は試合の5時間前に締め切られました", "lockIn": "予想締切まで"}, "hi": {"opensIn": "भविष्यवाणी खुलेगी", "shareMatch": "मैच साझा करें", "locked5": "मैच से 5 घंटे पहले भविष्यवाणी बंद हो गई", "lockIn": "भविष्यवाणी बंद होगी"}, "tr": {"opensIn": "Tahminler açılıyor:", "shareMatch": "Maçı paylaş", "locked5": "Tahminler maçtan 5 saat önce kapandı", "lockIn": "Tahminler kapanıyor:"}}).forEach(([l,o])=>{if(T[l])Object.assign(T[l],o);});

diff --git a/js/tester.js b/js/tester.js
@@ -9,11 +9,11 @@ const Tester={
  pred(m){const h=rnd(4),a=rnd(3);const p={h,a,y:2+rnd(4),c:7+rnd(6),r:Math.random()<.15,j:Math.random()<.2};
   if(Math.random()<.15){p.h=0;p.a=1+rnd(2);}// sometimes a bold away pick
   if(m.real)p.st='';else p.sc=rnd(PLAYERS.length);return p;},
- join(m){if(!this.on()||!m||m.preds[BOT]||m.state==='done')return;if(m.state!=='pre'&&!m.byBot)return;const p=this.pred(m);m.preds[BOT]=p;this.say(m,'botPre',{x:p.h>p.a?nm(m.home):p.h<p.a?nm(m.away):p.h+':'+p.a});},
+ join(m){if(!this.on()||!m||m.preds[BOT]||m.state==='done')return;if((m.state!=='pre'||(m.real&&Date.now()>=lockAt(m)))&&!m.byBot)return;const p=this.pred(m);m.preds[BOT]=p;this.say(m,'botPre',{x:p.h>p.a?nm(m.home):p.h<p.a?nm(m.away):p.h+':'+p.a});},
  joinAll(){if(!this.on())return;let d=0;S.matches.forEach(m=>{if(m.state==='pre'&&!m.preds[BOT]){this.join(m);d=1;}});if(d)save();},
  open(){if(!this.on())return;const act=S.matches.filter(m=>m.state!=='done').length;if(act>=3)return;
   const have=new Set(S.matches.map(m=>String(m.real||'')));let lg,m;const base={id:'m'+Date.now()+rnd(999),stake:'',state:'pre',minute:0,sh:0,sa:0,y:0,r:0,c:0,firstSc:null,preds:{},chat:[],feed:[],byBot:1};
-  const pool=[];Object.keys(fixCache).forEach(k=>(fixCache[k]||[]).forEach(e=>{const ko=Date.parse(e.strTimestamp+'Z');if(ko>Date.now()&&!have.has(String(e.idEvent)))pool.push([k,e,ko]);}));
+  const pool=[];Object.keys(fixCache).forEach(k=>(fixCache[k]||[]).forEach(e=>{const ko=Date.parse(e.strTimestamp+'Z');if(ko-LOCK5>Date.now()&&ko-WIN<Date.now()&&!have.has(String(e.idEvent)))pool.push([k,e,ko]);}));
   if(pool.length){pool.sort((a,b)=>a[2]-b[2]);const [k,e,ko]=pool[rnd(Math.min(4,pool.length))];lg=k;m={...base,lg,real:String(e.idEvent).replace(/\D/g,''),home:'|'+e.strHomeTeam,away:'|'+e.strAwayTeam,hb:safeUrl(e.strHomeTeamBadge),ab:safeUrl(e.strAwayTeamBadge),ko};}
   else{const ks=Object.keys(LEAGUES);lg=ks[rnd(ks.length)];const ts=LEAGUES[lg].teams;const h=rnd(ts.length);let a=rnd(ts.length);if(a===h)a=(h+1)%ts.length;m={...base,lg,home:ts[h],away:ts[a],ko:Date.now()+(2+rnd(3))*60000};}
   FRIENDS.slice(0,2+rnd(3)).forEach(f=>m.preds[f]=botPred(!!m.real));m.preds[BOT]=this.pred(m);this.say(m,'botOpenChat');

diff --git a/js/api.js b/js/api.js
@@ -4,8 +4,8 @@ const API={base:()=>'https://www.thesportsdb.com/api/v1/json/'+CONFIG.SPORTSDB_K
  leagueIds:{il:4644,epl:4328,liga:4335,seriea:4332,bund:4331,l1:4334},
  async j(p){const r=await fetch(API.base()+p);if(!r.ok)throw new Error(r.status);return r.json();},
  async fixtures(lg){const id=API.leagueIds[lg];const n=await API.j('eventsnextleague.php?id='+id);const ev=(n.events||[])[0];if(!ev)return[];const r=+ev.intRound,s=ev.strSeason;
-  const out=[];for(const rr of [r,r+1]){const d=await API.j(`eventsround.php?id=${id}&r=${rr}&s=${encodeURIComponent(s)}`);(d.events||[]).forEach(e=>{if(e.strStatus==='NS'||!e.intHomeScore)out.push(e);});}
-  return out.filter(e=>Date.parse(e.strTimestamp+'Z')>Date.now()-6e6).slice(0,20);},
+  const out=[];(n.events||[]).forEach(e=>{if(e.strStatus==='NS'||!e.intHomeScore)out.push(e);});for(const rr of [r,r+1]){const d=await API.j(`eventsround.php?id=${id}&r=${rr}&s=${encodeURIComponent(s)}`);(d.events||[]).forEach(e=>{if(out.some(x=>x.idEvent===e.idEvent))return;if(e.strStatus==='NS'||!e.intHomeScore)out.push(e);});}
+  out.sort((x,y)=>Date.parse(x.strTimestamp+'Z')-Date.parse(y.strTimestamp+'Z'));return out.filter(e=>Date.parse(e.strTimestamp+'Z')>Date.now()-6e6).slice(0,30);},
  async result(id){const d=await API.j('lookupevent.php?id='+id);const e=(d.events||[])[0];if(!e)return null;
   const ft=['FT','AET','PEN','Match Finished'].includes(e.strStatus);let tl=[];
   if(e.intHomeScore!=null){try{tl=(await API.j('lookuptimeline.php?id='+id)).timeline||[];}catch(x){}}

diff --git a/TASK_REPORT.md b/TASK_REPORT.md
@@ -39,3 +39,4 @@ CSP (scripts and styles only from the site; images and API calls only from TheSp
 - 2026-10-21 21:01 v3: celebration (fireworks+applause+13-lang toast) on correct result, kick-off whistle (sim+real), 3-blast final whistle (WebAudio), single scrollable match list with league/time filters + inline quick prediction; 13 langs.
 - 21.10 ברירת מחדל עברית (שפה אחרת רק בבחירה ידנית או ?lang=)
 - 2026-10-21 21:18 חבר בוחן מדומה 'בוחן 🤖 (מדומה)' (js/tester.js): מתג ב'אני' (ברירת מחדל פעיל); כל 1–2 דק' פותח משחק אם יש פחות מ-3 פעילים (מתיקון fixtures שבמטמון, אחרת סימולציה) + התראה; מצטרף לכל משחק עם ניחוש; צ'אט לפני משחק/גולים/כרטיסים/סיום; מגיב לניחוש; בדירוג, ליגות, דו־קרבות (מקבל אתגר). בלי בקשות API נוספות; 13 שפות.
+- 2026-10-21 21:21 חלון ניחושים: נפתח 48 ש' לפני המשחק ("נפתחים בעוד…"), נסגר 5 ש' לפני משחק אמיתי (ספירה לאחור + 'הניחושים נסגרו 5 שעות לפני המשחק'); משחקי סימולציה ננעלים בשריקה. רשימת fixtures כוללת גם eventsnextleague (עד 30). כפתור 📤 שתף משחק בכל כרטיס ובדף משחק; קישור ?m=&d= פותח ישר את המשחק אצל חבר (מסונן ומאומת). 13 שפות.
